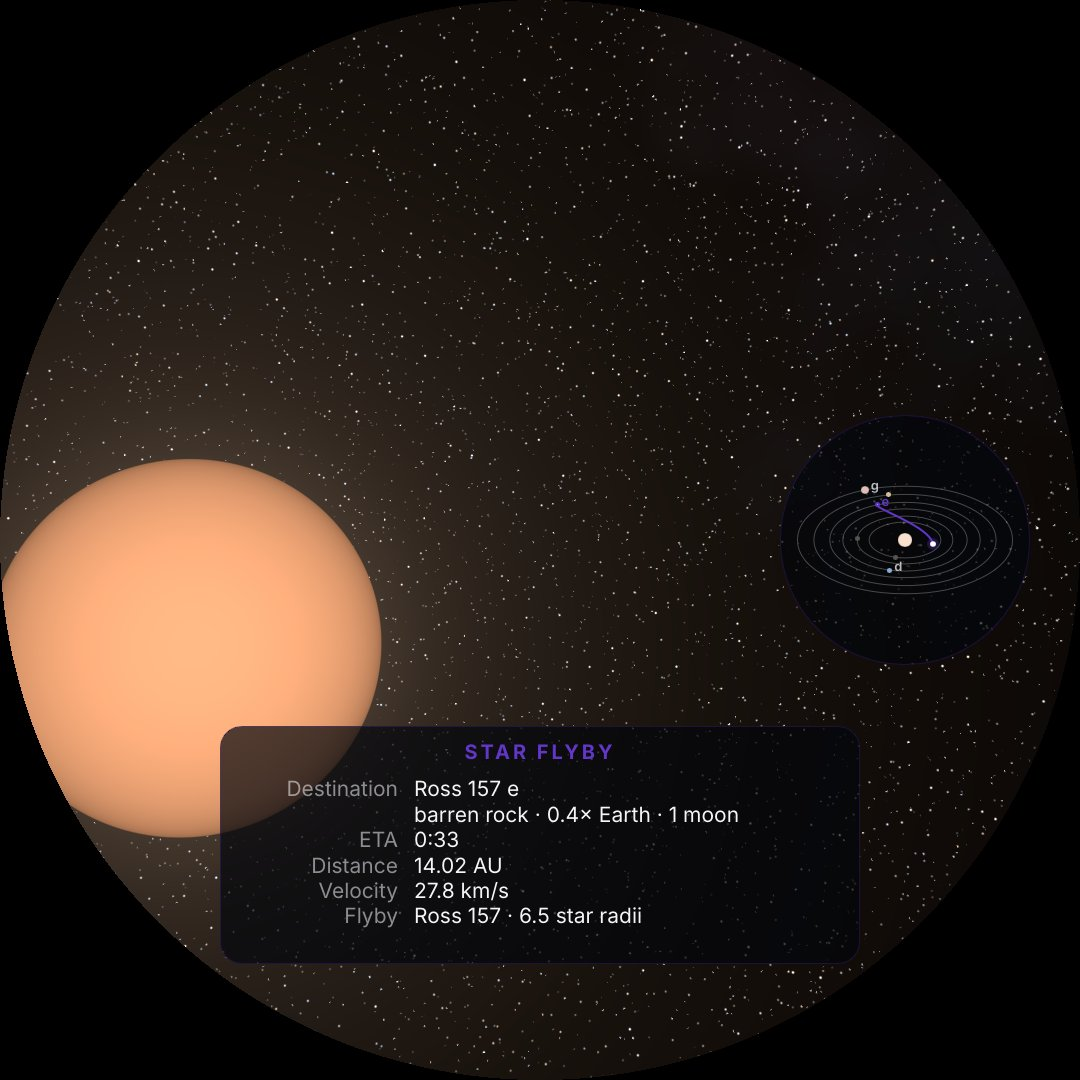
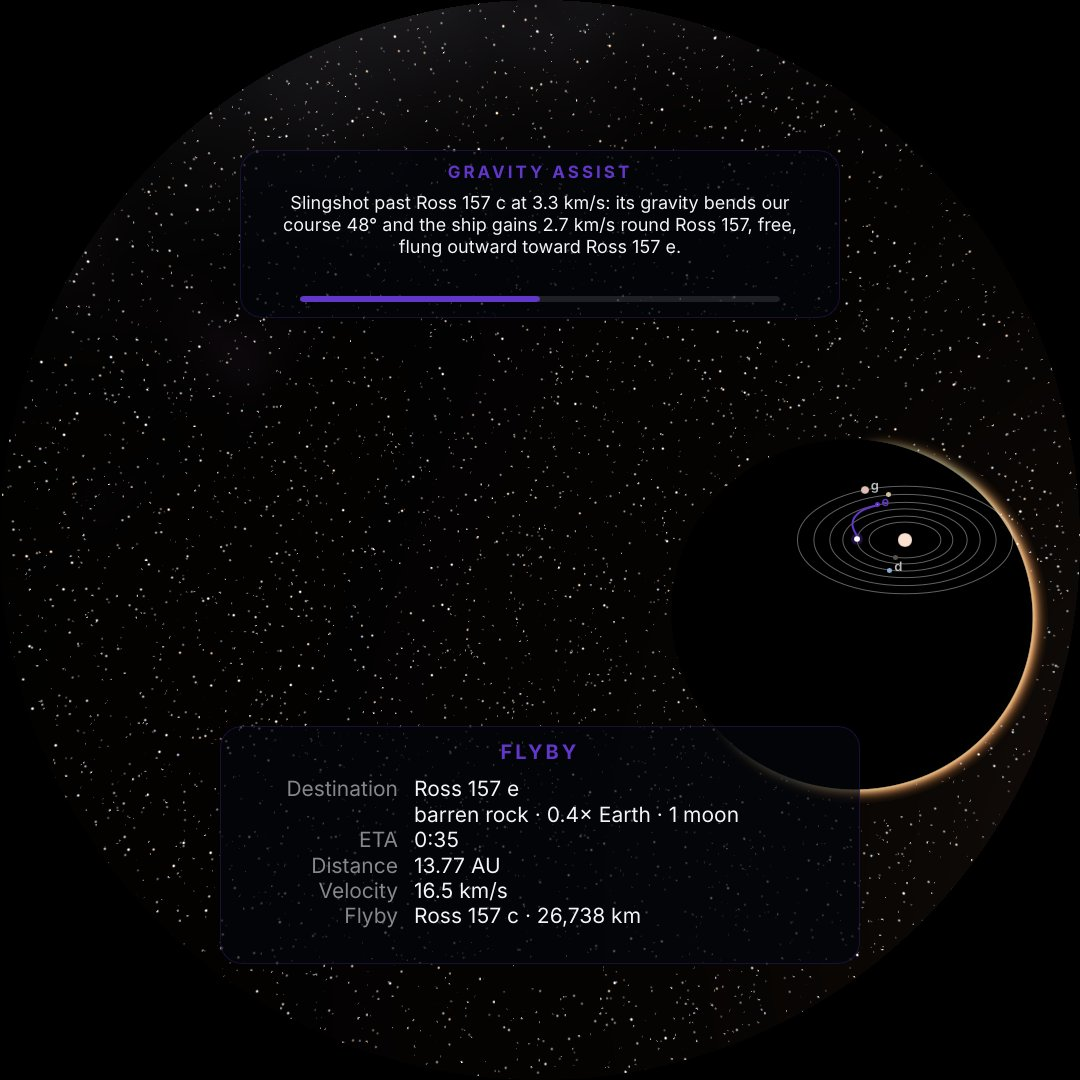
Solar: low-orbit detail at four threads, docs for the manoeuvres
The close-up pass reads the noise volume once (slope and grain) and takes
the star's direction from the body's centre, which keeps it at four
threads on the Pi 5's V3D; it is drawn only within 0.6 radii of the
ground. Every other shader is unchanged in threads (new baseline).

Claude-Session: https://claude.ai/code/session_01A2AoKVXyJYHML5Rhnd8ZWU

diff --git a/README.md b/README.md
@@ -52,8 +52,15 @@ Spotify **Premium** account.
   ringed) and moons of the kinds ours has (cratered, icy, volcanic, hazy, captured rock). Some
   giants have a moon as big as a planet, a world of its own mapped in full with air, seas and
   clouds. The tour drops out of a hyperjump, orbits three planets high and low (and such a moon
-  after its giant), and jumps on to the next star, ten to twelve minutes a system. Crossings swing
-  round the star in a close flyby, or past a planet not otherwise visited, slowing to take it in.
+  after its giant), and jumps on to the next star, ten to twelve minutes a system. Crossings fly
+  real manoeuvres, each named and explained on screen as it happens
+  ([docs/solar-assist.jpg](docs/solar-assist.jpg)): a departure burn, a coast along a transfer
+  ellipse round the star (a Hohmann transfer when it sweeps half way round), a gravity assist past a
+  planet on the way (its turn and the speed traded worked out from the planet's mass), or an Oberth
+  dive to perihelion past the star, burning where thrust counts most, then a capture burn into
+  orbit, and an escape burn before the jump. In low orbit a close-up pass adds grain and lit
+  slopes finer than the maps ([docs/solar-low-detail.jpg](docs/solar-low-detail.jpg), before and
+  after), drawn only near the ground.
   A minimap of the system shows the orbits, the planets, the route and the ship
   ([docs/solar-flyby.jpg](docs/solar-flyby.jpg), [docs/solar-moon.jpg](docs/solar-moon.jpg)), beside a HUD of the
   destination, ETA, distance and real orbital speeds. Each jump uses one of five named drives, each
